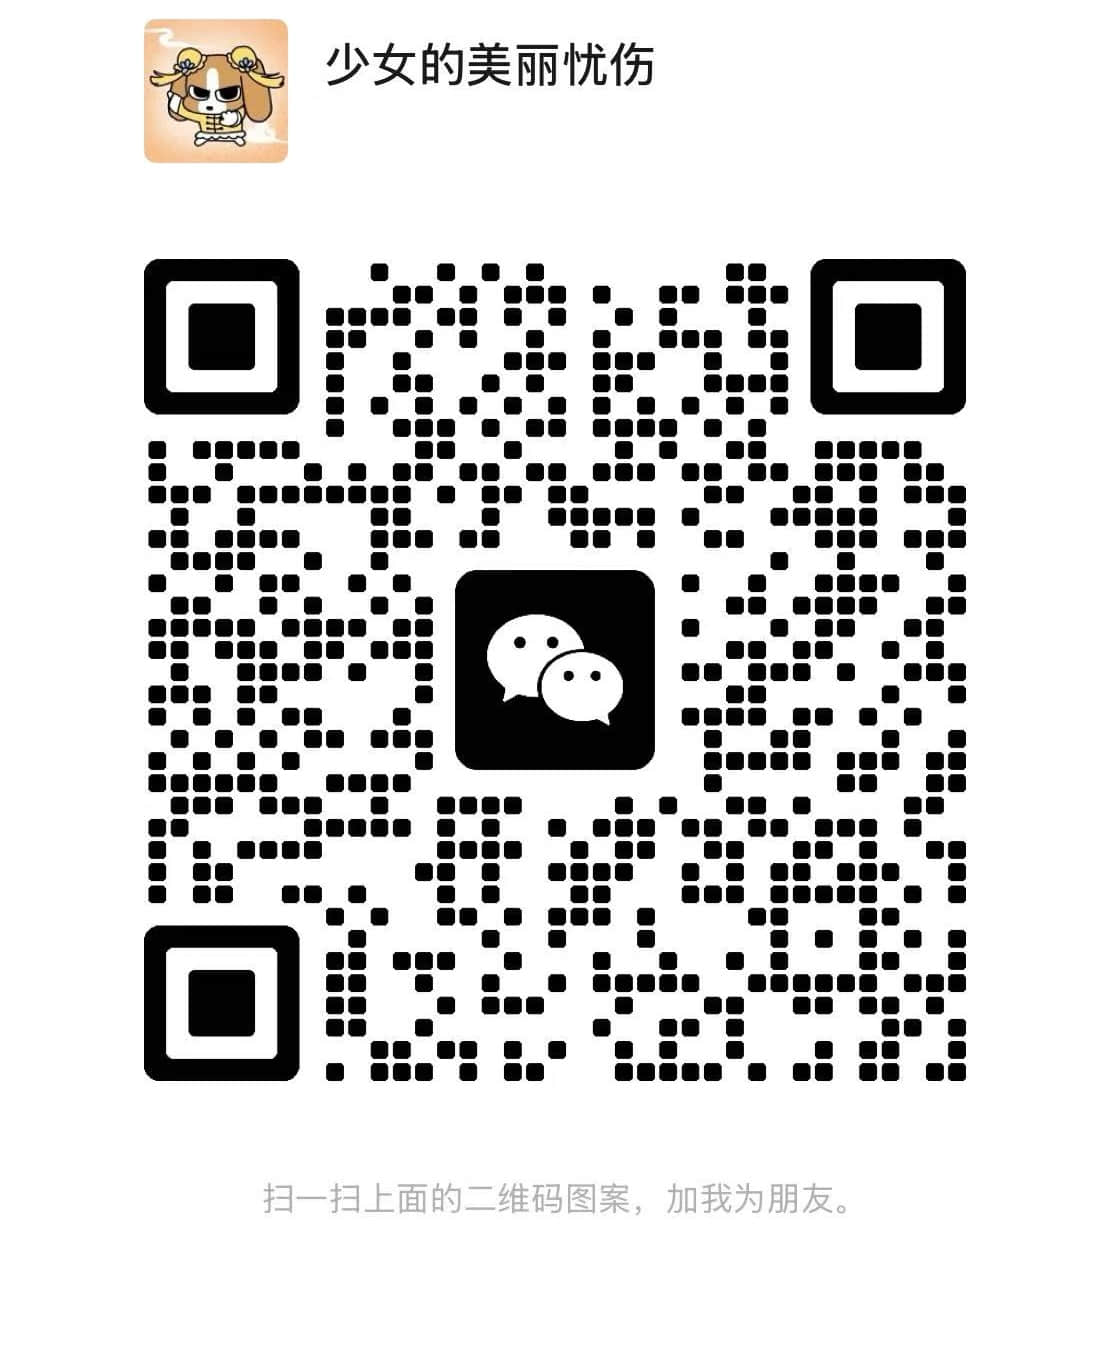
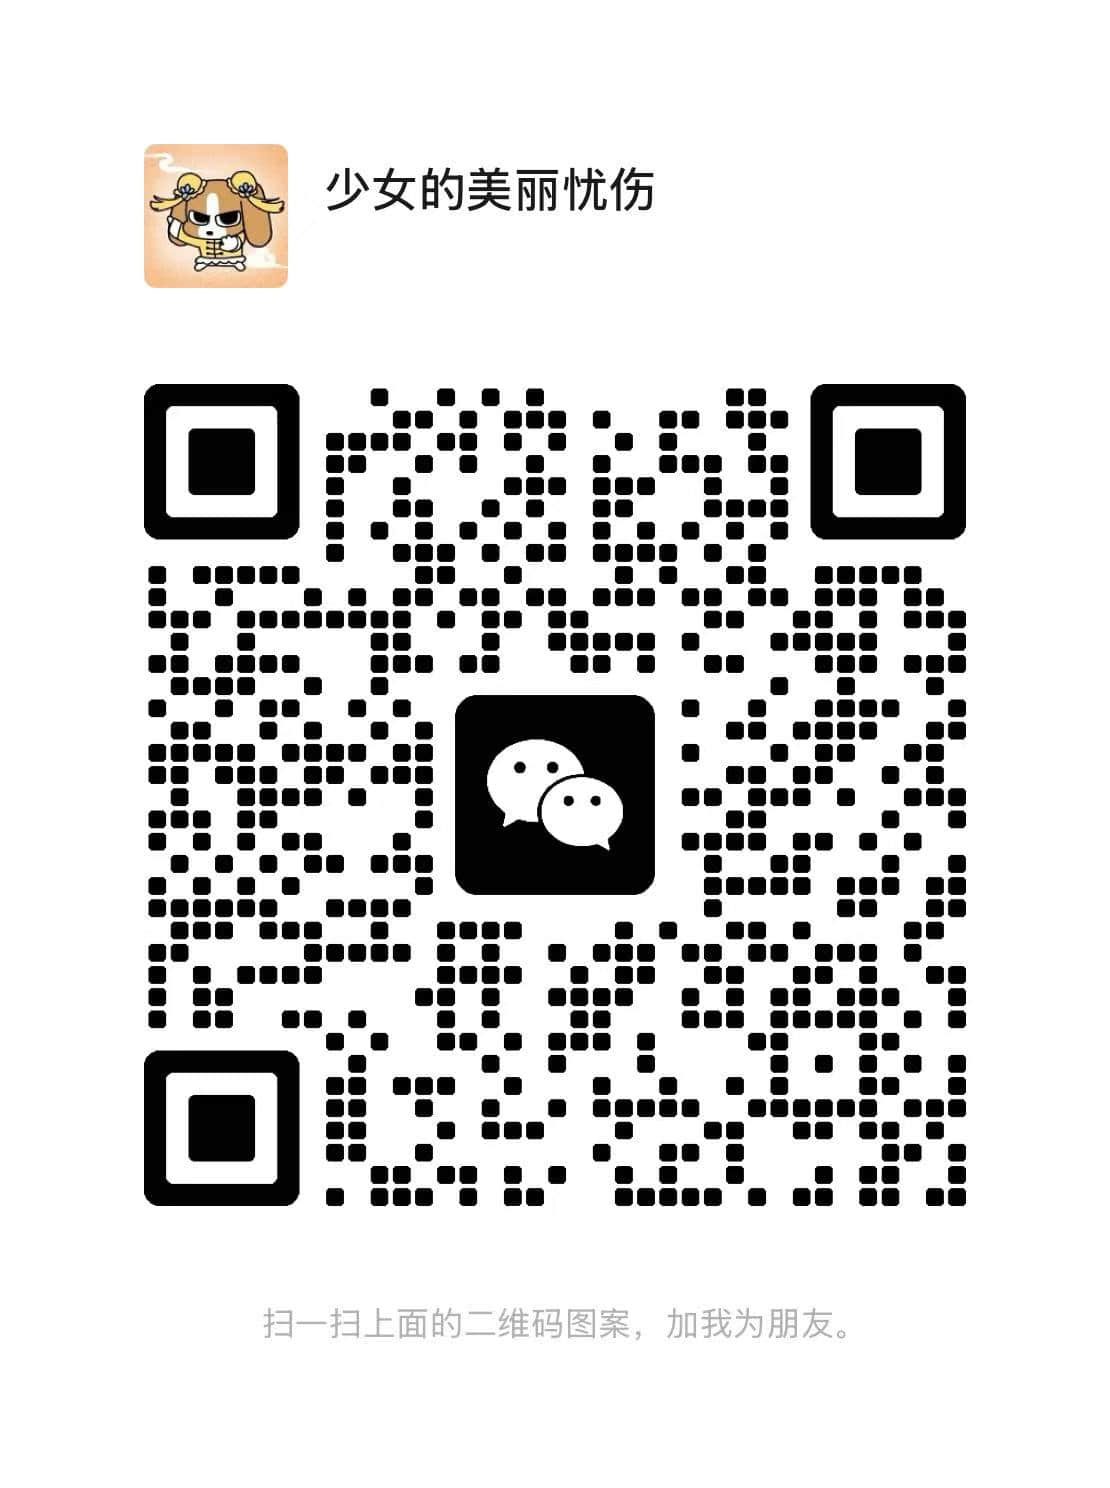
233

Changed region(s): [[0.1225, 0.0, 0.8883, 0.832], [0.3063, 0.0924, 0.582, 0.1541], [0.245, 0.8628, 0.7658, 0.8936]]

diff --git a/about.html b/about.html
@@ -1,13 +1,61 @@
+<!DOCTYPE html>
+<html lang="zh-CN">
 <head>
     <meta charset="UTF-8">
+    <title>关于时月东方 - 免费AI算命</title>
+    <meta name="description" content="了解时月东方的故事、愿景以及背后的创作者“少女的美丽忧伤”。一个结合传统智慧与AI技术的免费算命网站。">
+    <meta name="keywords" content="关于我们, 时月东方, AI算命, 免费算命, 少女的美丽忧伤">
+    <link rel="icon" href="static/favicon.ico" type="image/x-icon">
+    <link rel="icon" href="static/favicon.png" type="image/png">
+    <link rel="apple-touch-icon" sizes="180x180" href="static/apple-touch-icon.png">
     <meta name="viewport" content="width=device-width, initial-scale=1.0">
-    <title>关于我</title>
+    <link rel="stylesheet" href="/css/style.css">
 </head>
 <body>
-    <div class="content-wrapper">
-        <h1>关于我</h1>
-        <p>少女的美丽忧伤，一个很长又感觉有点怪的名字</p>
-        <p>有点家传、师传，会八字、紫薇、风水、六壬、六爻等，毕竟大家都在用AI算命，那为什么不做一个更好的AI呢？于是引用了传统的计算方法和排盘逻辑，做出了本站，不过切记，AI算命仅供娱乐。生成的内容完全基于 AI 模型的胡言乱语，不构成任何形式的建议。作者对您基于本工具做出的任何决定不负任何责任。如果您真的相信了这个工具的分析结果，那么......祝您好运！</p>
-        <img src="static/weixin.jpg" alt="微信二维码" width="300" >
+    <div class="mobile-header">
+        <h1>时月东方</h1>
+        <button class="menu-toggle">&#9776;</button>
     </div>
+    <div class="overlay"></div>
+    <div class="container">
+        <nav>
+            <div class="logo">
+                <img src="static/avatar.png" alt="癸水少女">
+                <h1>时月东方</h1>
+                <p>一个臭算命的不圈钱，学人来搞AI算命？</p>
+            </div>
+            <ul>
+                <li><a href="ly.html" class="nav-link">六爻</a></li>
+                <li><a href="mh.html" class="nav-link">梅花易数</a></li>
+                <li><a href="qm.html" class="nav-link">奇门遁甲</a></li>
+                <li><a href="dp.html" class="nav-link">塔罗牌·单牌</a></li>
+                <li><a href="sp.html" class="nav-link">塔罗牌·三牌</a></li>
+                <li><a href="about.html" class="nav-link active">关于</a></li>
+            </ul>
+            <div class="desktop-footer">
+                <p>© <span id="year-desktop"></span> By <a href="about.html" target="_blank">少女的美丽忧伤丨AI算命仅供娱乐</a></p>
+            </div>
+        </nav>
+        <main>
+            <div class="content-wrapper about-page">
+                <section class="about-section">
+                    <h2>关于 “少女的美丽忧伤”</h2>
+                    <p class="subtitle">一个很长又感觉有点怪的名字</p>
+                    <p>有点家传、师传，会八字、紫薇、风水、六壬、六爻等，毕竟大家都在用AI算命，那为什么不做一个更好的AI呢？于是引用了传统的计算方法和排盘逻辑，做出了本站。</p>
+                </section>
+                <section class="about-section disclaimer">
+                    <h3>免责声明</h3>
+                    <p>切记，AI算命仅供娱乐。生成的内容完全基于 AI 模型的胡言乱语，不构成任何形式的建议。作者对您基于本工具做出的任何决定不负任何责任。如果您真的相信了这个工具的分析结果，那么......祝您好运！</p>
+                </section>
+                <section class="about-section contact-info">
+                    <h3>联系我</h3>
+                    <p>如果您有任何建议、反馈或合作意向，欢迎通过以下方式联系我：</p>
+                    <img src="static/weixin.jpg" alt="微信二维码" class="qr-code">
+                    <p class="qr-caption">扫一扫上面的二维码，加我微信</p>
+                </section>
+            </div>
+        </main>
+    </div>
+    <script src="js/main.js"></script>
 </body>
+</html>

diff --git a/css/style.css b/css/style.css
@@ -439,3 +439,143 @@ input[type="text"] {
     width: 100%; /* 宽度由父容器决定 */
     height: auto;
 }
+
+/* Desktop Welcome Navigation */
+.desktop-welcome {
+    display: flex;
+    flex-direction: column;
+    justify-content: center;
+    align-items: center;
+    height: 100%;
+    padding: 40px;
+    box-sizing: border-box;
+    text-align: center;
+    background-color: #f4f7f6;
+}
+
+.desktop-welcome h2 {
+    font-size: 2.5em;
+    color: #2c3e50;
+    margin-bottom: 40px;
+}
+
+.welcome-nav-cards {
+    display: grid;
+    grid-template-columns: repeat(auto-fit, minmax(250px, 1fr));
+    gap: 30px;
+    width: 100%;
+    max-width: 900px;
+}
+
+.nav-card {
+    background: #fff;
+    border-radius: 12px;
+    padding: 25px;
+    text-decoration: none;
+    color: inherit;
+    box-shadow: 0 4px 15px rgba(0, 0, 0, 0.05);
+    transition: transform 0.3s ease, box-shadow 0.3s ease;
+    border: 1px solid #e0e0e0;
+}
+
+.nav-card:hover {
+    transform: translateY(-5px);
+    box-shadow: 0 8px 25px rgba(0, 0, 0, 0.1);
+}
+
+.nav-card h3 {
+    font-size: 1.4em;
+    color: #34495e;
+    margin: 0 0 10px;
+}
+
+.nav-card p {
+    font-size: 1em;
+    color: #7f8c8d;
+    margin: 0;
+    line-height: 1.5;
+}
+
+@media (max-width: 768px) {
+    .desktop-welcome {
+        display: none;
+    }
+}
+
+/* About Page Styles */
+.about-page {
+    padding: 40px;
+}
+
+.about-section {
+    margin-bottom: 40px;
+    padding-bottom: 30px;
+    border-bottom: 1px solid #eee;
+}
+
+.about-section:last-child {
+    margin-bottom: 0;
+    border-bottom: none;
+}
+
+.about-section h2 {
+    font-size: 2em;
+    color: #2c3e50;
+    margin-bottom: 10px;
+}
+
+.about-section h3 {
+    font-size: 1.5em;
+    color: #34495e;
+    margin-bottom: 15px;
+}
+
+.about-section .subtitle {
+    font-size: 1.1em;
+    color: #95a5a6;
+    margin-top: -10px;
+    margin-bottom: 20px;
+    font-style: italic;
+}
+
+.about-section p {
+    font-size: 1.1em;
+    line-height: 1.8;
+    color: #555;
+}
+
+.disclaimer {
+    background-color: #fdf2f2;
+    border: 1px solid #f8d7da;
+    color: #721c24;
+    padding: 20px;
+    border-radius: 8px;
+}
+
+.disclaimer h3 {
+    color: #721c24;
+}
+
+.disclaimer p {
+    color: #721c24;
+    margin: 0;
+}
+
+.contact-info {
+    text-align: center;
+}
+
+.qr-code {
+    width: 200px;
+    margin: 20px auto;
+    display: block;
+    border: 5px solid #fff;
+    box-shadow: 0 4px 15px rgba(0, 0, 0, 0.1);
+    border-radius: 8px;
+}
+
+.qr-caption {
+    font-size: 0.9em;
+    color: #888;
+    margin-top: -10px;
+}

diff --git a/index.html b/index.html
@@ -46,7 +46,35 @@
             </div>
         </nav>
         <main>
-            <!-- The main content is now primarily in the mobile-welcome div for the index page -->
+            <div class="desktop-welcome">
+                <h2>选择您的占卜类型</h2>
+                <div class="welcome-nav-cards">
+                    <a href="ly.html" class="nav-card">
+                        <h3>六爻</h3>
+                        <p>深入剖析事情的内在联系和发展趋势。</p>
+                    </a>
+                    <a href="mh.html" class="nav-card">
+                        <h3>梅花易数</h3>
+                        <p>快速抓住事物发展的关键点，判断吉凶。</p>
+                    </a>
+                    <a href="qm.html" class="nav-card">
+                        <h3>奇门遁甲</h3>
+                        <p>分析复杂局势，为决策提供全面参考。</p>
+                    </a>
+                    <a href="dp.html" class="nav-card">
+                        <h3>塔罗牌·单牌</h3>
+                        <p>在需要快速得到答案或建议时非常实用。</p>
+                    </a>
+                    <a href="sp.html" class="nav-card">
+                        <h3>塔罗牌·三牌</h3>
+                        <p>提供更丰富的细节和更全面的视角。</p>
+                    </a>
+                    <a href="about.html" class="nav-card">
+                        <h3>关于本站</h3>
+                        <p>了解时月东方的故事和愿景。</p>
+                    </a>
+                </div>
+            </div>
         </main>
     </div>
 
